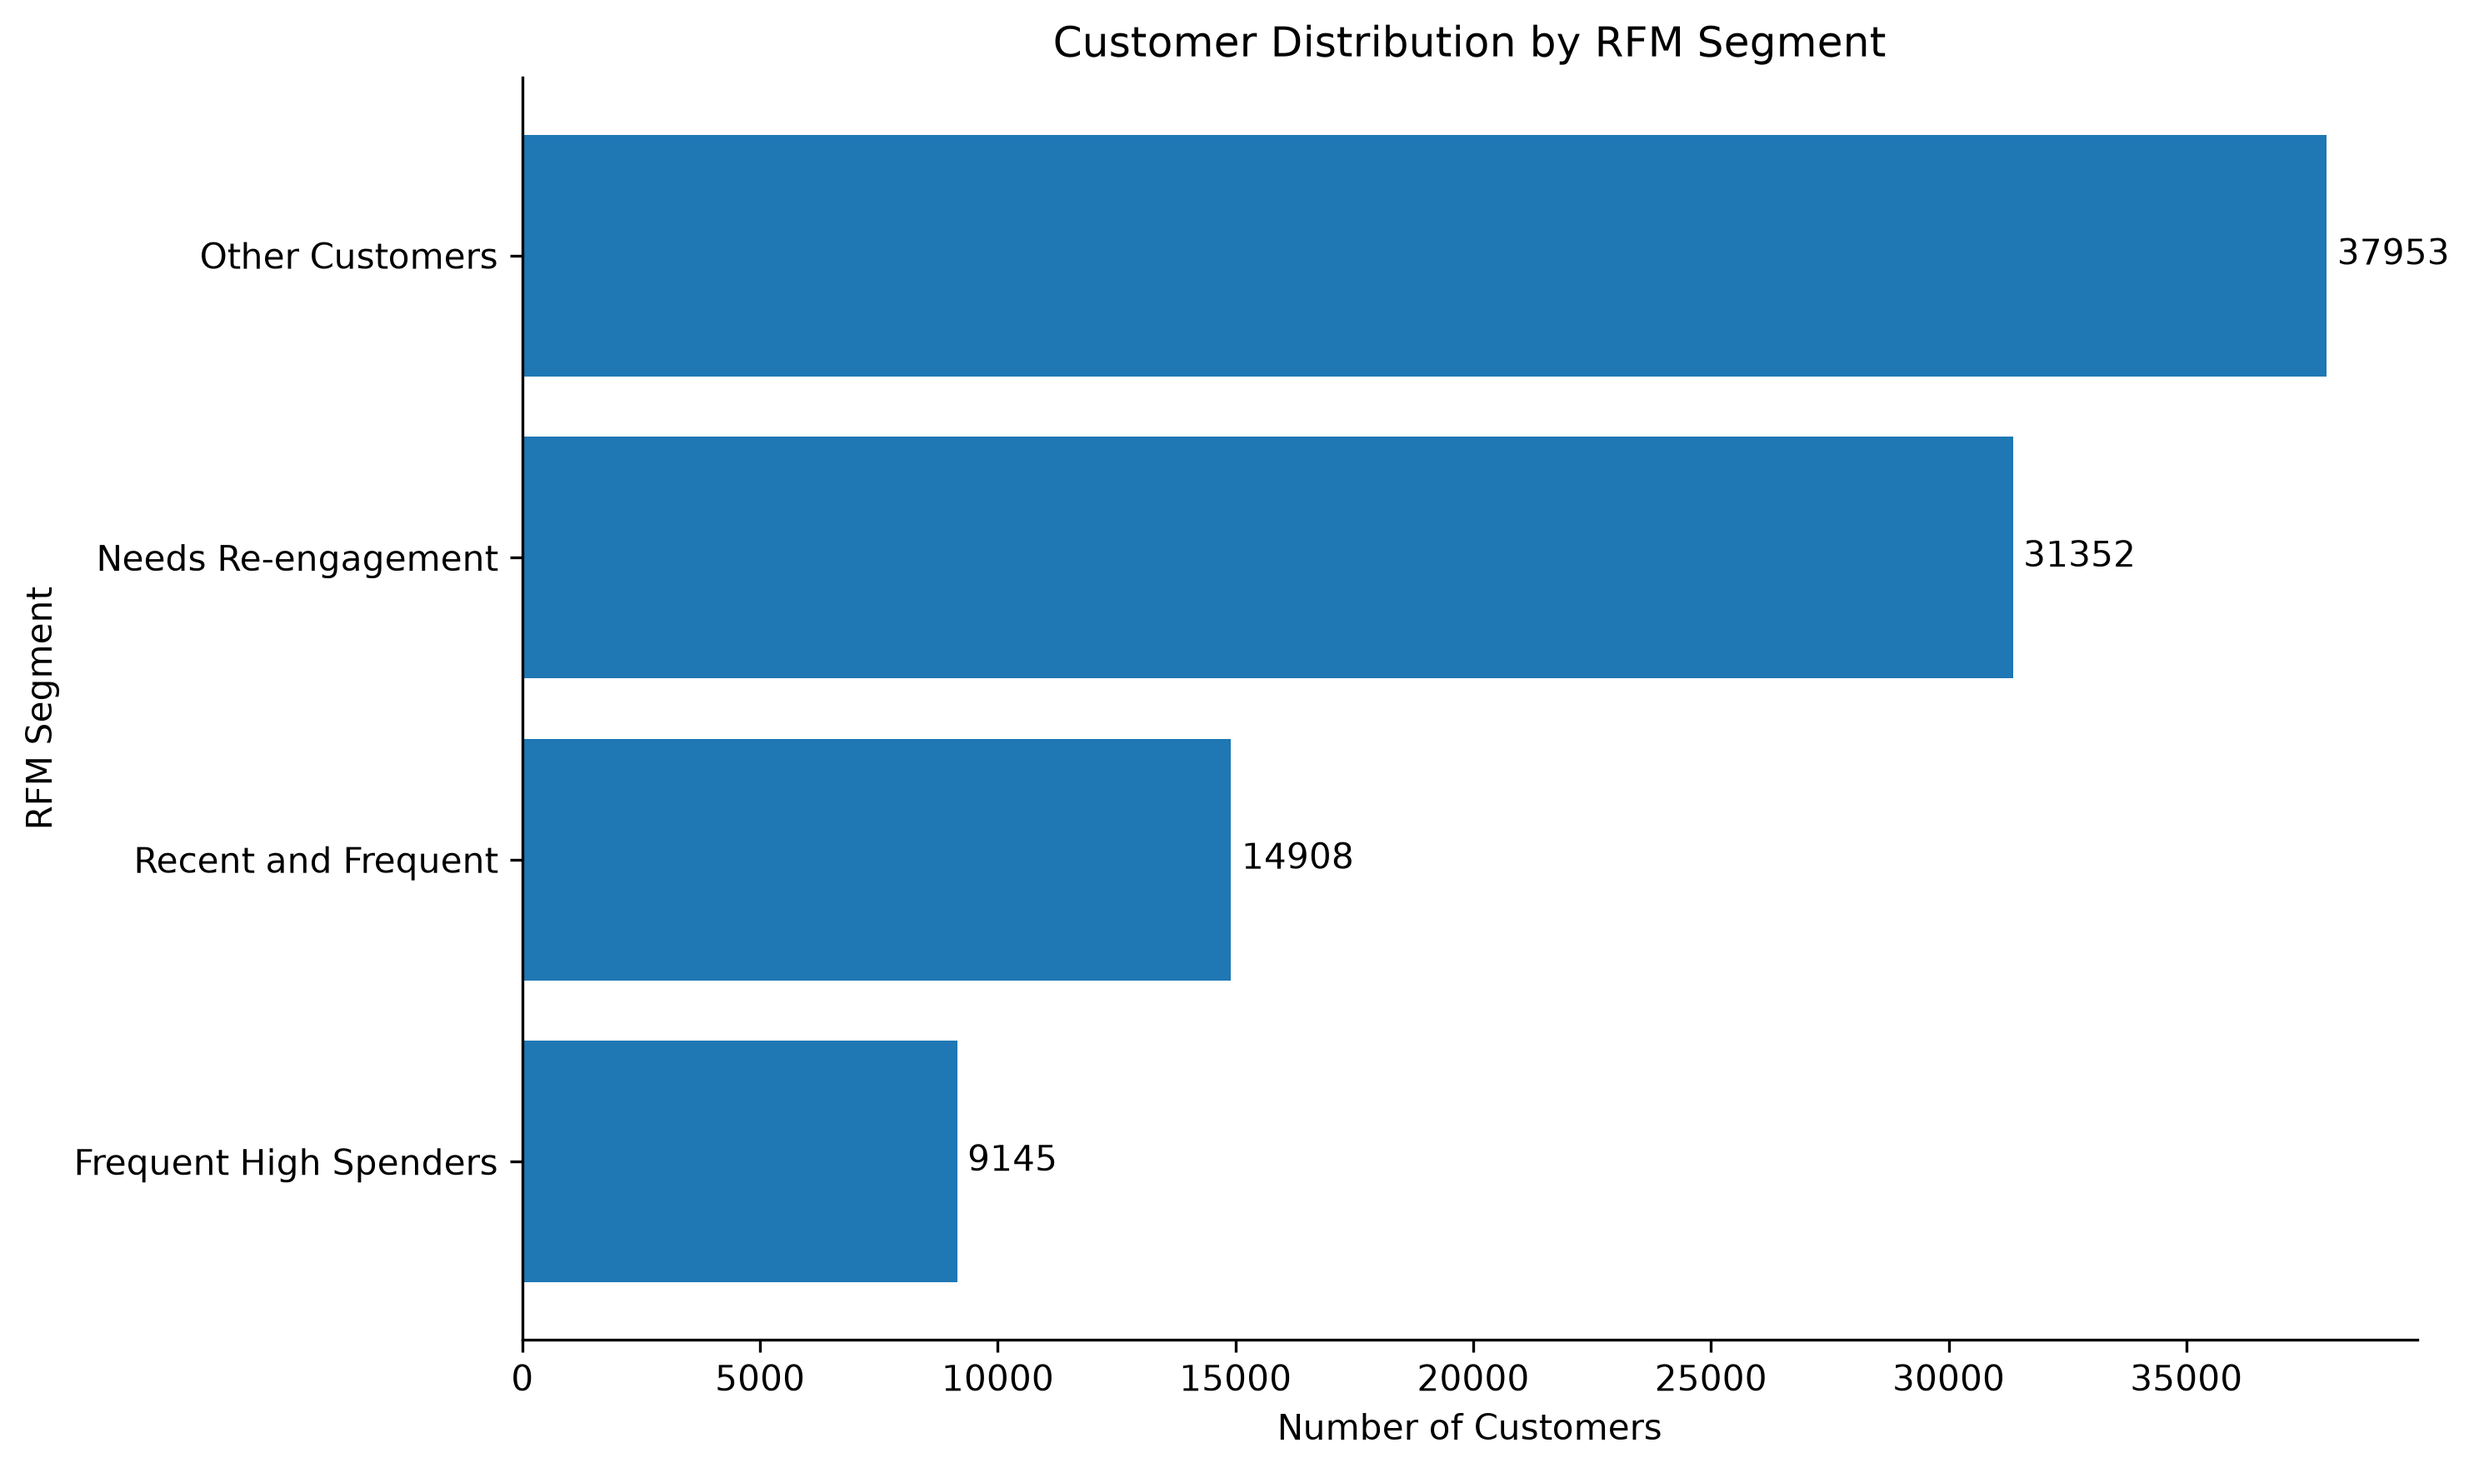
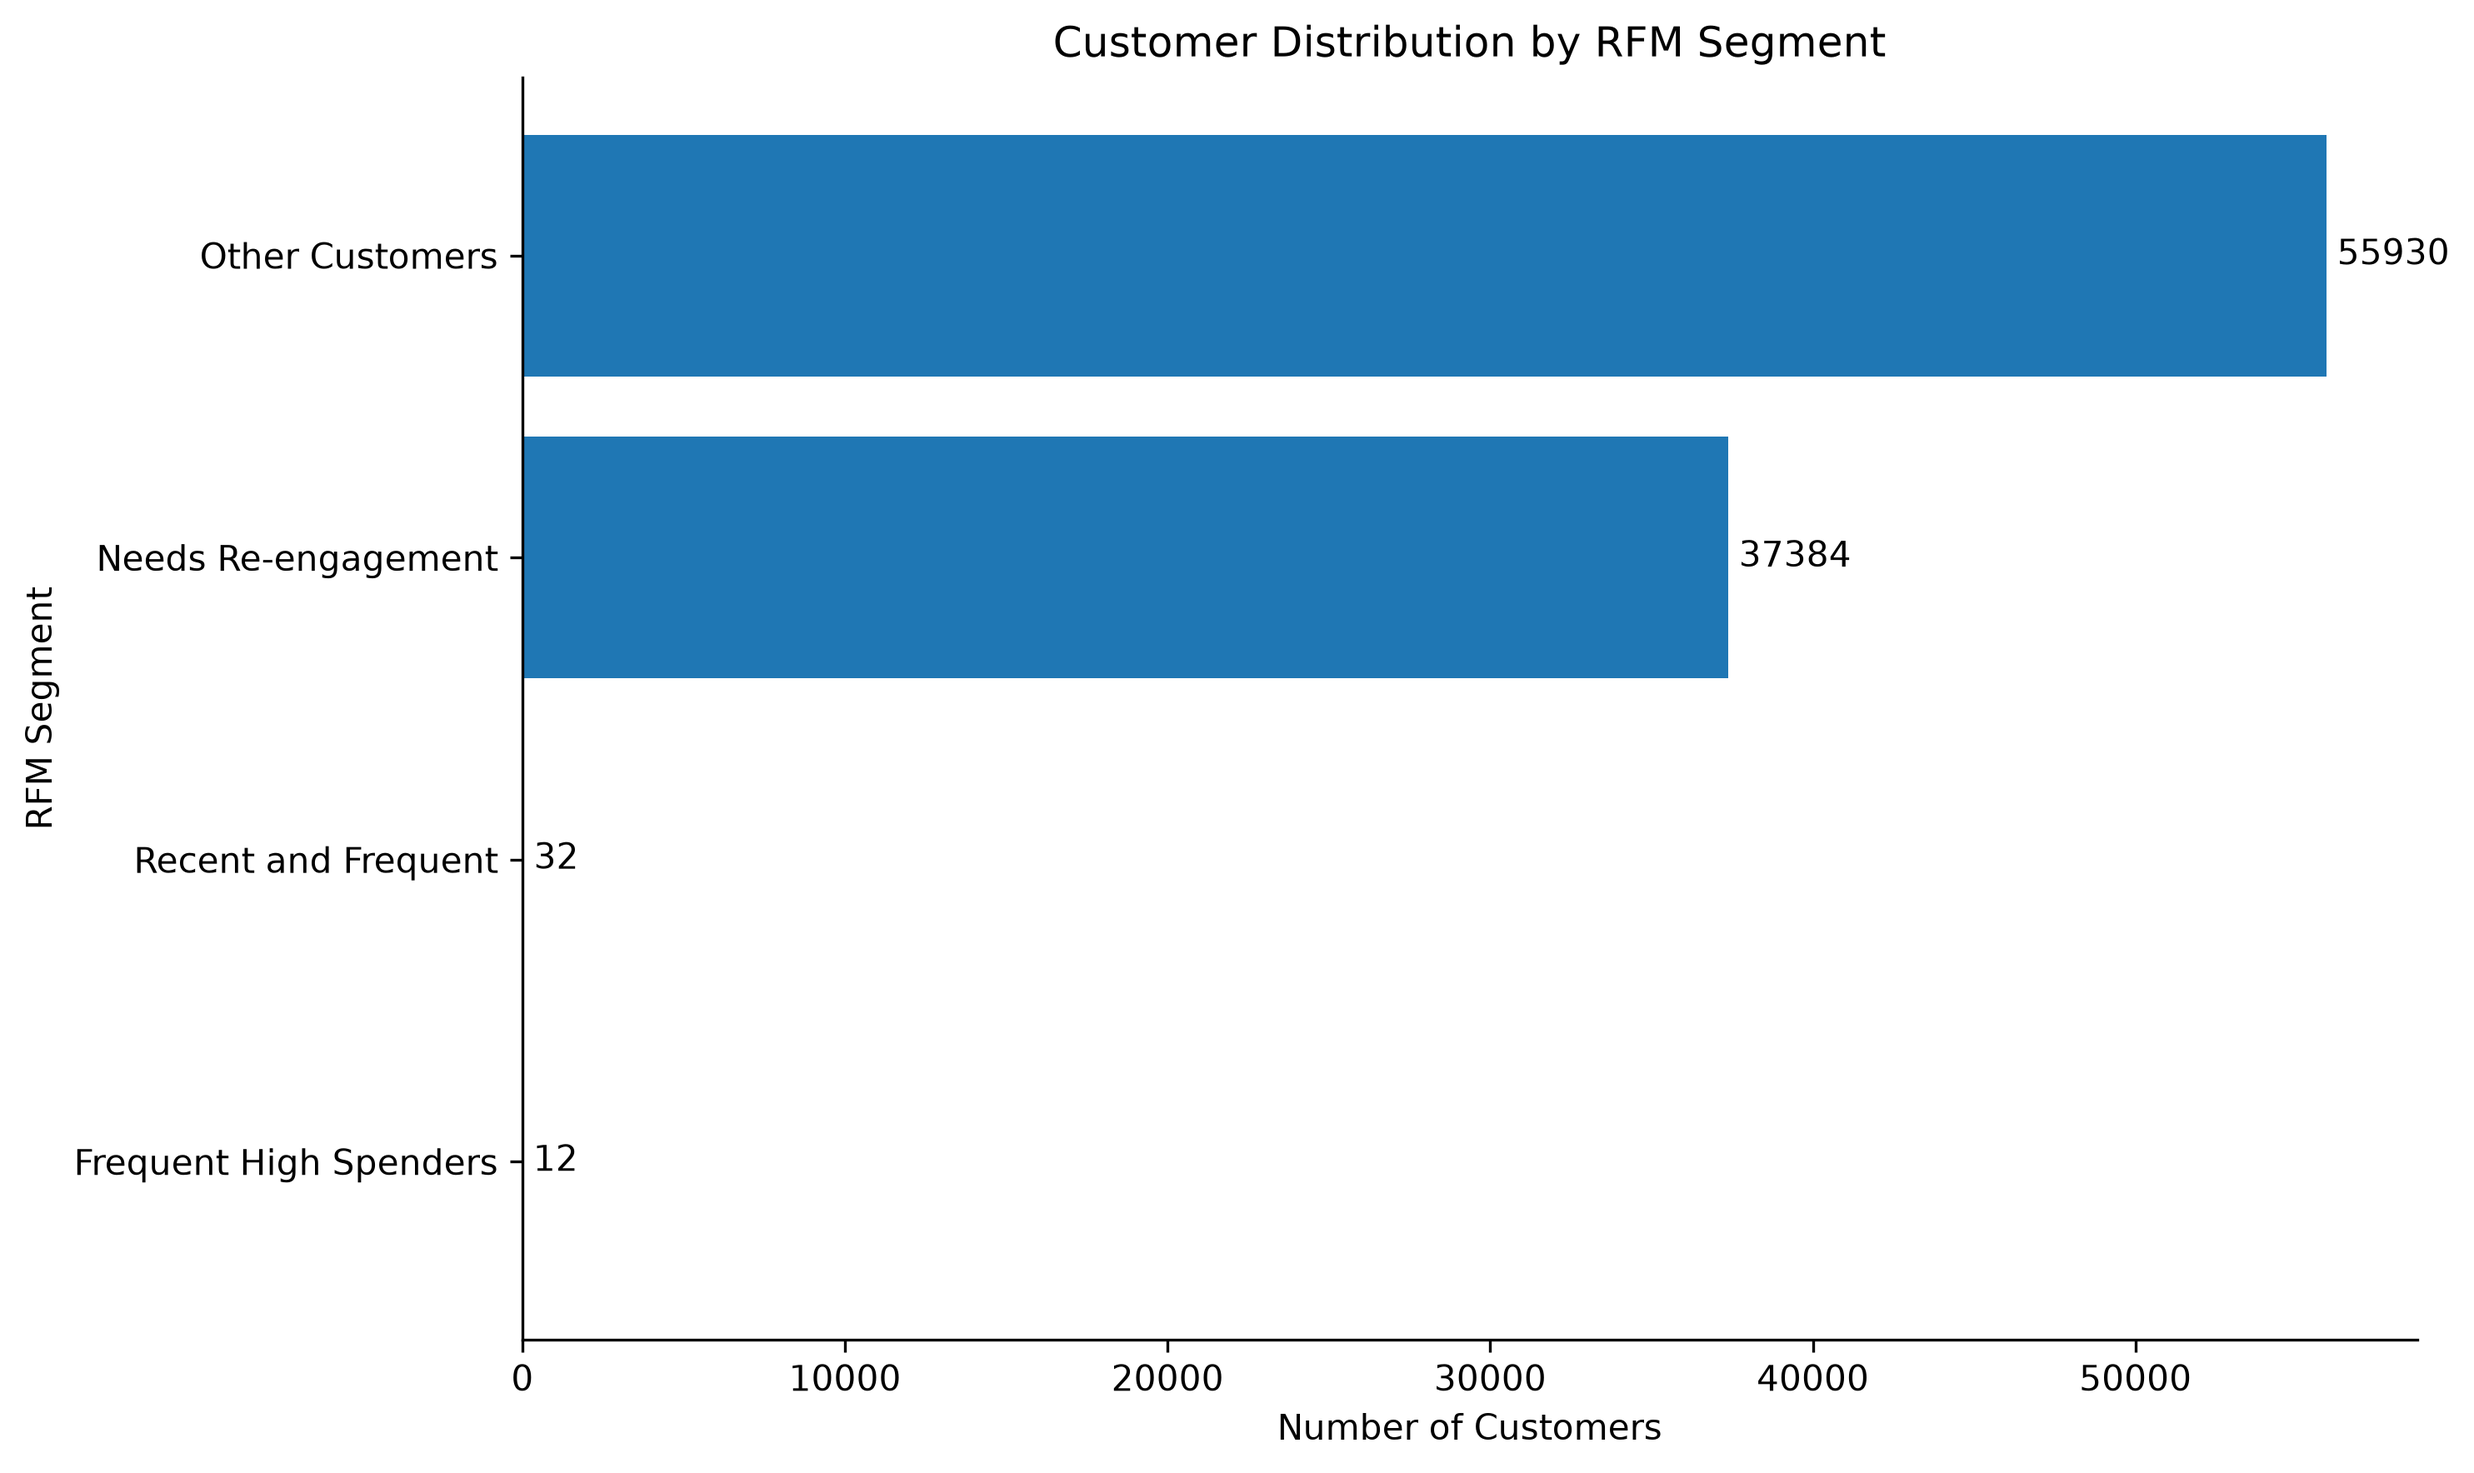
Update customer RFM analysis and findings

diff --git a/reports/customer-analysis-findings.md b/reports/customer-analysis-findings.md
@@ -91,20 +91,23 @@ AOV was R$159.83, calculated by dividing the total value of product prices plus 
 
 ## 8. RFM Customer Segmentation
 
-RFM scores were calculated using quintiles. Recency was scored in reverse, while frequency and monetary scores increased with higher values. The reference date was one day after the latest eligible purchase date.
+RFM (Recency, Frequency, Monetary) analysis was performed to segment customers based on their purchasing behavior. The reference date was one day after the latest eligible purchase date.
+
+Recency scores were calculated using percentile-based ranking in reverse order, so more recent customers received higher scores. Frequency scores were assigned using business-rule thresholds: 1 order = 1, 2 orders = 2, 3 orders = 3, 4–5 orders = 4, and 6 or more orders = 5. Monetary scores were calculated using percentile-based ranking, with higher spending receiving higher scores. Customers with tied values received the same score.
 
 | Segment | Customers | Average monetary value (BRL) | Average frequency |
 |---|---:|---:|---:|
-| Other Customers | 37,953 | 150.19 | 1.00 |
-| Needs Re-engagement | 31,352 | 137.20 | 1.01 |
-| Recent and Frequent | 14,908 | 176.92 | 1.09 |
-| Frequent High Spenders | 9,145 | 304.03 | 1.15 |
+| Other Customers | 55,930 | 164.57 | 1.03 |
+| Needs Re-engagement | 37,384 | 165.28 | 1.03 |
+| Recent and Frequent | 32 | 871.73 | 4.97 |
+| Frequent High Spenders | 12 | 735.88 | 4.92 |
 
-The largest segment was Other Customers. Needs Re-engagement represented 31,352 customers, while Frequent High Spenders had the highest average monetary value at R$304.03.
+Other Customers represented the largest segment, with 55,930 customers. Needs Re-engagement included 37,384 customers. The Recent and Frequent segment contained 32 customers, while Frequent High Spenders contained 12 customers.
 
-These are simplified, rule-based segments rather than validated loyalty classifications. Average purchase frequencies close to one indicate that even customers assigned to the higher-frequency segments generally had few delivered orders. Quintile scoring with rank-based tie handling can also assign different scores to customers with tied underlying values.
+These are simplified, rule-based customer segments rather than validated loyalty classifications. The high concentration of one-time purchasers reflects the purchasing patterns in the dataset.
 
 The visualization is saved as `output/rfm_customer_segments.png`.
+
 
 ## 9. Business Recommendations
 
@@ -116,10 +119,5 @@ The visualization is saved as `output/rfm_customer_segments.png`.
 
 ## 10. Limitations
 
-- The analysis covers the records available in the supplied dataset and uses delivered orders with valid purchase timestamps for the principal customer metrics.
-- Missing delivery and approval timestamps occur in the original orders data; orders were not included in the eligible population unless their status was delivered and their purchase timestamp was valid.
-- Some product records have missing category names. Unknown categories were retained rather than silently discarded.
-- Customer counts do not measure profitability or explain customer motivations.
-- The RFM reference date is historical and based on the latest eligible purchase, so the scores do not describe current activity.
-- Rank-based quintile scoring can split tied values across score groups. The simplified segment labels should be validated before business deployment.
-- Monthly counts may be affected by partial periods and dataset boundaries.
+
+- Recency and monetary scores use percentile-based ranking with average tie handling, while frequency scores use predefined business-rule thresholds. The simplified RFM segments should be validated before business deployment.
